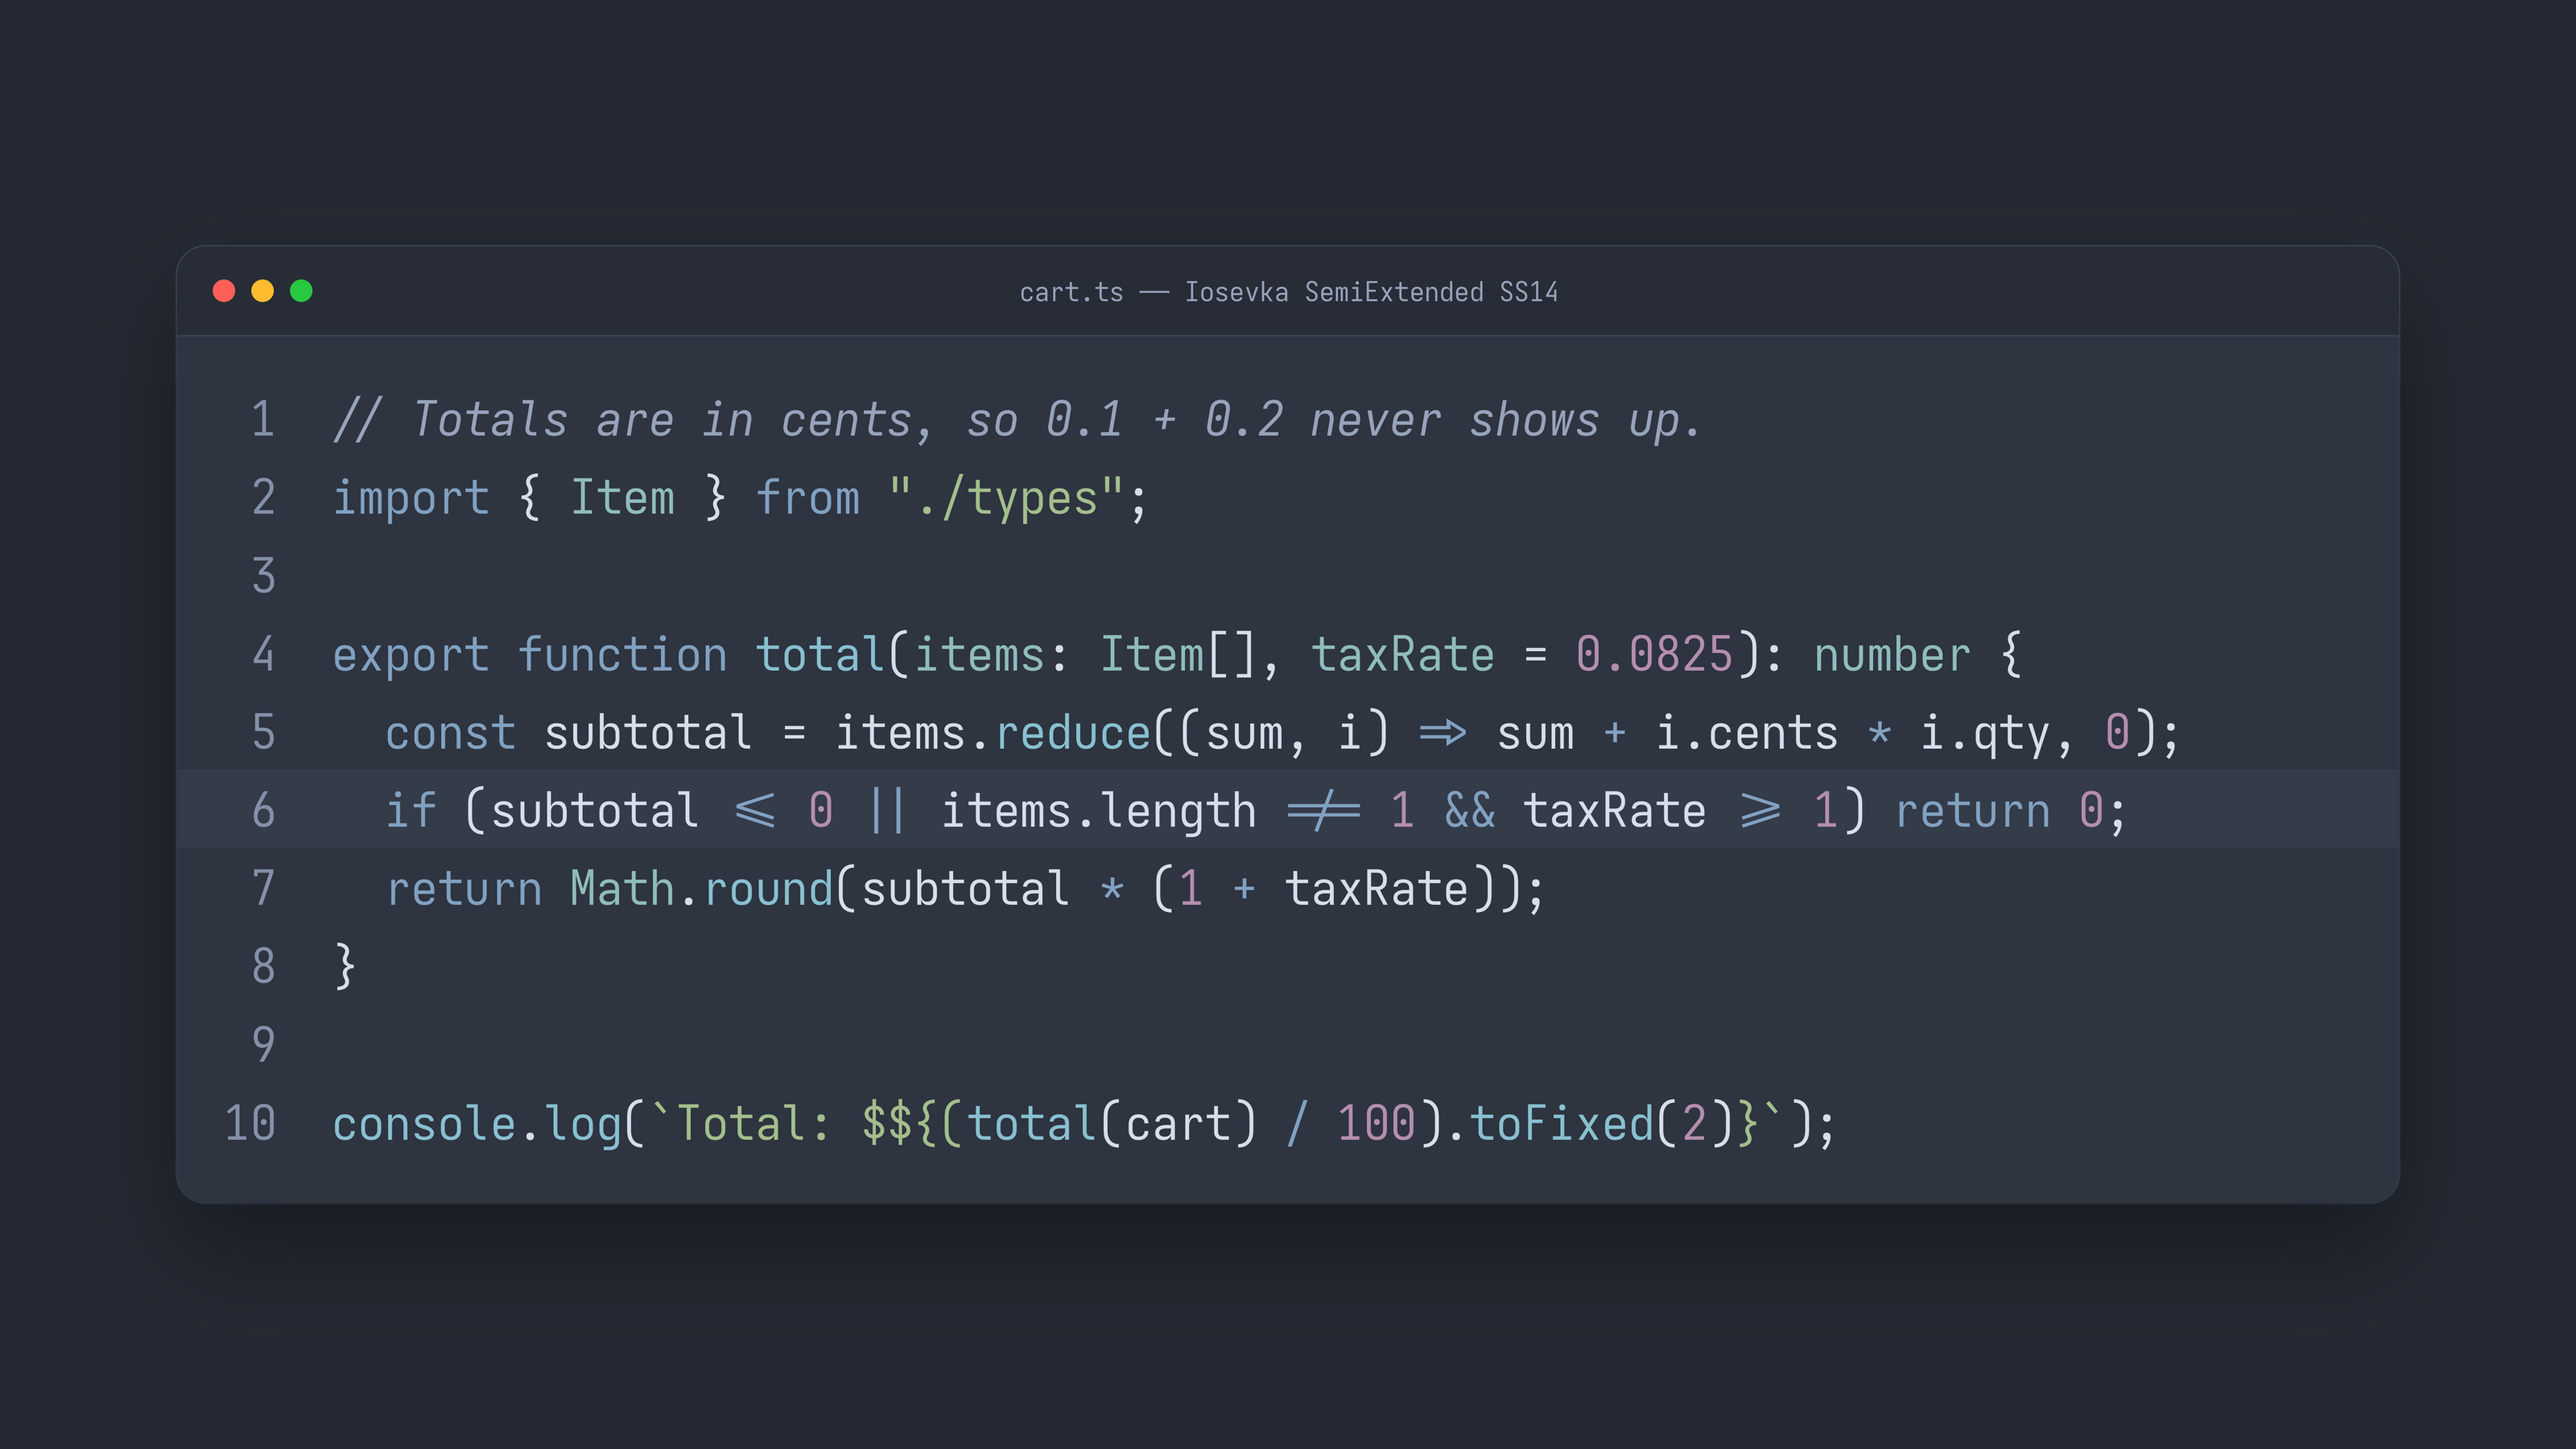
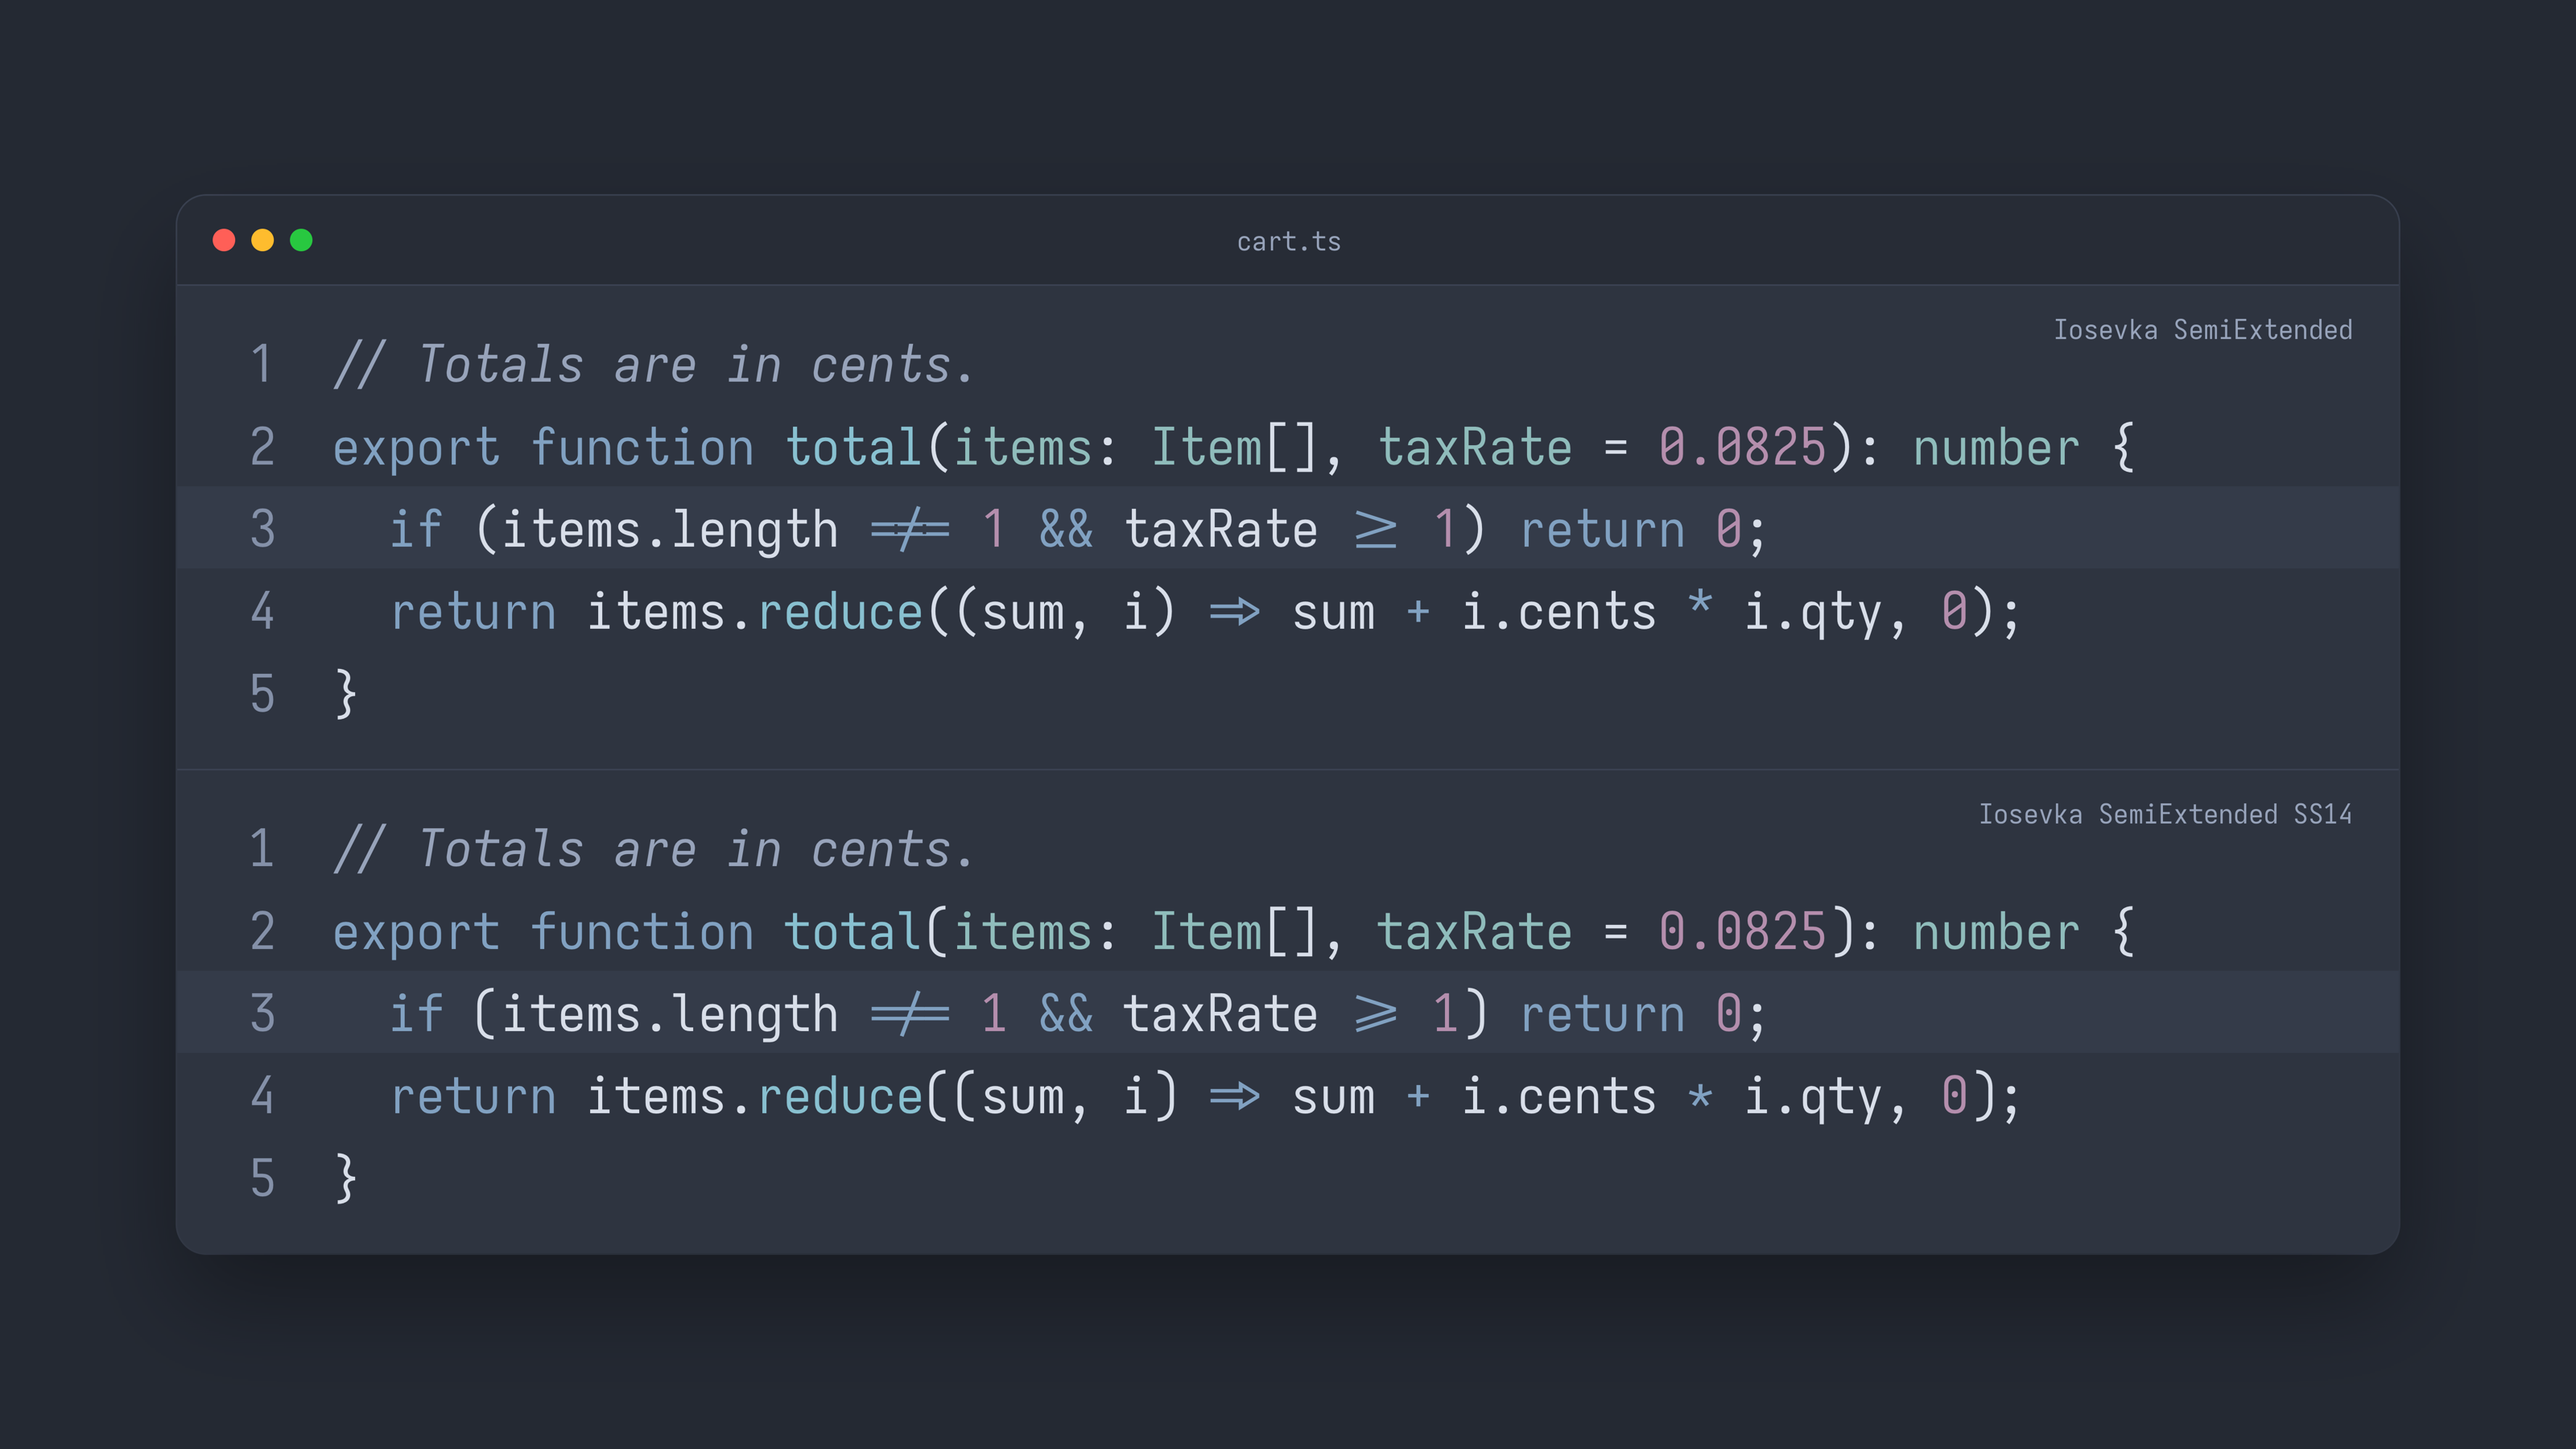
Show both families in the preview images

diff --git a/images/src/code.html b/images/src/code.html
@@ -10,7 +10,11 @@ body { background: var(--bg); padding: 0 110px; display: flex; align-items: cent
 .dots b:nth-child(2) { background: #febc2e; }
 .dots b:nth-child(3) { background: #28c840; }
 .title { flex: 1; text-align: center; font-size: 17px; color: var(--dim); margin-right: 60px; }
-pre { font: inherit; font-size: 30px; line-height: 1.62; padding: 26px 0; color: var(--fg); }
+.pane { position: relative; font-family: "Iosevka SemiExtended", monospace; }
+.pane + .pane { border-top: 1px solid var(--line); }
+.pane.ss14 { font-family: "Iosevka SemiExtended SS14", monospace; }
+.tag { position: absolute; top: 16px; right: 28px; font-size: 17px; color: var(--dim); }
+pre { font: inherit; font-size: 32px; line-height: 1.6; padding: 22px 0; color: var(--fg); }
 .l { display: block; padding: 0 36px 0 0; white-space: pre; }
 .l.cur { background: var(--sel); }
 .n { display: inline-block; width: 96px; text-align: right; padding-right: 34px; color: var(--ln); }
@@ -19,6 +23,22 @@ pre { font: inherit; font-size: 30px; line-height: 1.62; padding: 26px 0; color:
 </style>
 <script>if (location.hash === '#light') document.documentElement.className = 'light';</script>
 <div class="win">
-  <div class="bar"><div class="dots"><b></b><b></b><b></b></div><div class="title">cart.ts — Iosevka SemiExtended SS14</div></div>
-<pre><span class="l"><span class="n">1</span><span class="c">// Totals are in cents, so 0.1 + 0.2 never shows up.</span></span><span class="l"><span class="n">2</span><span class="k">import</span> { <span class="t">Item</span> } <span class="k">from</span> <span class="s">"./types"</span>;</span><span class="l"><span class="n">3</span></span><span class="l"><span class="n">4</span><span class="k">export function</span> <span class="f">total</span>(<span class="t">items</span>: <span class="t">Item</span>[], <span class="t">taxRate</span> = <span class="d">0.0825</span>): <span class="t">number</span> {</span><span class="l"><span class="n">5</span>  <span class="k">const</span> subtotal = items.<span class="f">reduce</span>((sum, i) <span class="o">=&gt;</span> sum <span class="o">+</span> i.cents <span class="o">*</span> i.qty, <span class="d">0</span>);</span><span class="l cur"><span class="n">6</span>  <span class="k">if</span> (subtotal <span class="o">&lt;=</span> <span class="d">0</span> <span class="o">||</span> items.length <span class="o">!==</span> <span class="d">1</span> <span class="o">&amp;&amp;</span> taxRate <span class="o">&gt;=</span> <span class="d">1</span>) <span class="k">return</span> <span class="d">0</span>;</span><span class="l"><span class="n">7</span>  <span class="k">return</span> <span class="t">Math</span>.<span class="f">round</span>(subtotal <span class="o">*</span> (<span class="d">1</span> <span class="o">+</span> taxRate));</span><span class="l"><span class="n">8</span>}</span><span class="l"><span class="n">9</span></span><span class="l"><span class="n">10</span><span class="f">console</span>.<span class="f">log</span>(<span class="s">`Total: $${(</span><span class="f">total</span>(cart) <span class="o">/</span> <span class="d">100</span>).<span class="f">toFixed</span>(<span class="d">2</span>)<span class="s">}`</span>);</span></pre>
+  <div class="bar"><div class="dots"><b></b><b></b><b></b></div><div class="title">cart.ts</div></div>
+  <div class="pane" id="stock"><div class="tag">Iosevka SemiExtended</div><pre></pre></div>
+  <div class="pane ss14" id="ss14"><div class="tag">Iosevka SemiExtended SS14</div><pre></pre></div>
 </div>
+<script>
+// {{class:text}} marks a highlighted span; text is HTML.
+const lines = [
+  '{{c:// Totals are in cents.}}',
+  '{{k:export function}} {{f:total}}({{t:items}}: {{t:Item}}[], {{t:taxRate}} = {{d:0.0825}}): {{t:number}} {',
+  '  {{k:if}} (items.length {{o:!==}} {{d:1}} {{o:&amp;&amp;}} taxRate {{o:&gt;=}} {{d:1}}) {{k:return}} {{d:0}};',
+  '  {{k:return}} items.{{f:reduce}}((sum, i) {{o:=&gt;}} sum {{o:+}} i.cents {{o:*}} i.qty, {{d:0}});',
+  '}',
+];
+const cur = 2;
+const html = lines.map((raw, i) =>
+  '<span class="l' + (i === cur ? ' cur' : '') + '"><span class="n">' + (i + 1) + '</span>' +
+  raw.replace(/\{\{(\w):(.*?)\}\}/g, '<span class="$1">$2</span>') + '</span>').join('');
+document.querySelectorAll('.pane pre').forEach(p => p.innerHTML = html);
+</script>

diff --git a/images/src/glyphs.html b/images/src/glyphs.html
@@ -1,23 +1,35 @@
 <!doctype html><meta charset="utf-8"><link rel="stylesheet" href="common.css">
 <style>
 html { background-color: #1d2230; }
-body { background-color: #1d2230; color: #e5e9f0; padding: 72px 100px; }
-.head { display: flex; justify-content: space-between; align-items: baseline; margin-bottom: 52px; }
-.head h2 { font-size: 40px; font-weight: 700; }
-.head span { font-size: 20px; color: #8795ad; }
-.grid { display: grid; grid-template-columns: repeat(2, 1fr); gap: 52px 70px; }
-.lab { font-size: 16px; letter-spacing: .12em; text-transform: uppercase; color: #88c0d0; margin-bottom: 12px; }
-.t { font-size: 46px; line-height: 1.38; color: #d8dee9; word-break: break-all; }
-.lig { grid-column: 1 / -1; }
-.lig .t { font-size: 44px; white-space: nowrap; }
+body { background-color: #1d2230; color: #e5e9f0; padding: 64px 100px; font-family: "Iosevka SemiExtended", monospace; }
+h2 { font-size: 40px; font-weight: 700; margin-bottom: 34px; }
+.grid { display: grid; grid-template-columns: 190px minmax(0, 1fr) minmax(0, 1fr); column-gap: 40px; row-gap: 26px; align-items: baseline; }
+.head { align-self: end; }
+.head .name { font-size: 26px; font-weight: 700; color: #e5e9f0; }
+.head .note { font-size: 18px; color: #9aa7bd; margin-top: 2px; }
+.lab { font-size: 15px; letter-spacing: .12em; text-transform: uppercase; color: #88c0d0; font-family: "Iosevka SemiExtended", monospace; }
+.t { font-size: 38px; line-height: 1.3; color: #d8dee9; white-space: nowrap; }
+.ss14 { font-family: "Iosevka SemiExtended SS14", monospace; }
+.rule { grid-column: 1 / -1; border-top: 1px solid #343c52; margin: 4px 0 2px; }
 </style>
-<div class="head"><h2>Character set</h2><span>Iosevka SemiExtended SS14 · Regular</span></div>
-<div class="grid">
-  <div><div class="lab">Uppercase</div><div class="t">ABCDEFGHIJKLMNOPQRSTUVWXYZ</div></div>
-  <div><div class="lab">Lowercase</div><div class="t">abcdefghijklmnopqrstuvwxyz</div></div>
-  <div><div class="lab">Numerals</div><div class="t">0123456789 ¼ ½ ¾ ² ³</div></div>
-  <div><div class="lab">Punctuation</div><div class="t">!?.,:;&amp;@#$%*+-=/\|~^_`'"</div></div>
-  <div><div class="lab">Accented</div><div class="t">àéîõü ñçø ÅÆŒ ŁŠŽ ğş</div></div>
-  <div><div class="lab">Greek &amp; Cyrillic</div><div class="t">αβγδ ΩΣΔ ЖДЯ жфю</div></div>
-  <div class="lig"><div class="lab">Ligatures</div><div class="t">-&gt; =&gt; &lt;= &gt;= == != === !== &amp;&amp; || :: &lt;-&gt; |&gt; ..&lt;</div></div>
-</div>
+<h2>Character set</h2>
+<div class="grid" id="grid"></div>
+<script>
+const rows = [
+  ['Uppercase', 'ABCDEFGHIJKLMNOPQRSTUVWXYZ'],
+  ['Lowercase', 'abcdefghijklmnopqrstuvwxyz'],
+  ['Numerals', '0123456789 ¼ ½ ¾ ² ³'],
+  ['Punctuation', '!?.,:;&amp;@#$%*+-=/\\|~^_`\'"'],
+  ['Accented', 'àéîõü ñçø ÅÆŒ ŁŠŽ ğş'],
+  ['Greek &amp; Cyrillic', 'αβγδ ΩΣΔ ЖДЯ жфю'],
+  ['Ligatures', '-&gt; =&gt; &lt;= &gt;= != === &amp;&amp; ||'],
+];
+let h = '<div></div>' +
+  '<div class="head"><div class="name">Iosevka SemiExtended</div><div class="note">The release Iosevka design</div></div>' +
+  '<div class="head ss14"><div class="name">Iosevka SemiExtended SS14</div><div class="note">JetBrains Mono style</div></div>' +
+  '<div class="rule"></div>';
+for (const [lab, text] of rows) {
+  h += '<div class="lab">' + lab + '</div><div class="t">' + text + '</div><div class="t ss14">' + text + '</div>';
+}
+document.getElementById('grid').innerHTML = h;
+</script>

diff --git a/images/src/hero.html b/images/src/hero.html
@@ -1,21 +1,34 @@
 <!doctype html><meta charset="utf-8"><link rel="stylesheet" href="common.css">
 <style>
 html { background-color: #1d2230; }
-body { background-color: #1d2230; color: #e5e9f0; padding: 84px 100px; position: relative; }
+body { background-color: #1d2230; color: #e5e9f0; padding: 68px 100px; position: relative; font-family: "Iosevka SemiExtended", monospace; }
 .eyebrow { font-size: 22px; letter-spacing: .14em; text-transform: uppercase; color: #88c0d0; }
-h1 { font-size: 132px; line-height: 1.02; font-weight: 700; margin-top: 18px; letter-spacing: -.01em; }
+h1 { font-size: 104px; line-height: 1.05; font-weight: 700; margin-top: 14px; letter-spacing: -.01em; }
 h1 span { color: #88c0d0; }
-.sub { font-size: 30px; color: #9aa7bd; margin-top: 22px; }
-.abc { margin-top: 56px; font-size: 54px; line-height: 1.35; color: #d8dee9; }
-.abc i { color: #a3be8c; }
-.weights { position: absolute; left: 100px; right: 100px; bottom: 70px; display: flex; justify-content: space-between; border-top: 1px solid #343c52; padding-top: 28px; }
-.w { font-size: 30px; color: #cfd6e6; text-align: left; }
-.w small { display: block; font-size: 15px; font-weight: 400; color: #8795ad; margin-top: 8px; letter-spacing: .04em; }
+.cards { display: grid; grid-template-columns: 1fr 1fr; gap: 36px; margin-top: 52px; }
+.card { background: #252b3b; border: 1px solid #343c52; border-radius: 16px; padding: 26px 34px 28px; }
+.card .name { font-size: 26px; font-weight: 700; color: #e5e9f0; }
+.card .note { font-size: 18px; color: #9aa7bd; margin-top: 4px; }
+.card .s { font-size: 56px; line-height: 1.34; color: #d8dee9; margin-top: 16px; white-space: nowrap; }
+.ss14, .ss14 .name, .ss14 .note, .ss14 .s { font-family: "Iosevka SemiExtended SS14", monospace; }
+.weights { position: absolute; left: 100px; right: 100px; bottom: 54px; display: flex; justify-content: space-between; border-top: 1px solid #343c52; padding-top: 22px; }
+.w { font-size: 28px; color: #cfd6e6; }
+.w small { display: block; font-size: 15px; font-weight: 400; color: #8795ad; margin-top: 6px; letter-spacing: .04em; }
 </style>
-<div class="eyebrow">Iosevka · 548 wide · JetBrains Mono style</div>
-<h1>Iosevka<br><span>SemiExtended</span> SS14</h1>
-<div class="sub">The width in between, as its own font family.</div>
-<div class="abc">0123456789 &nbsp;ABCDEFGHIJKLM<br>agjlrty &nbsp;<i>agjlrty</i> &nbsp;NOPQRSTUVWXYZ</div>
+<div class="eyebrow">Iosevka · 548 wide · Homebrew</div>
+<h1><span>Iosevka</span> SemiExtended</h1>
+<div class="cards">
+  <div class="card">
+    <div class="name">Iosevka SemiExtended</div>
+    <div class="note">The release Iosevka design</div>
+    <div class="s">0123456789<br>agjlrty QRWYGK<br>Il1| O0o {}[] -&gt; !=</div>
+  </div>
+  <div class="card ss14">
+    <div class="name">Iosevka SemiExtended SS14</div>
+    <div class="note">JetBrains Mono style</div>
+    <div class="s">0123456789<br>agjlrty QRWYGK<br>Il1| O0o {}[] -&gt; !=</div>
+  </div>
+</div>
 <div class="weights">
   <div class="w" style="font-weight:100">Thin<small>100</small></div>
   <div class="w" style="font-weight:200">ExtraLight<small>200</small></div>

diff --git a/README.md b/README.md
@@ -1,6 +1,6 @@
 # Iosevka SemiExtended
 
-![Iosevka SemiExtended SS14 specimen](images/hero.png)
+![Iosevka SemiExtended and Iosevka SemiExtended SS14 side by side, with all nine weights](images/hero.png)
 
 [Iosevka](https://github.com/be5invis/Iosevka), unmodified, in the SemiExtended width (548). The release builds ship Normal and Extended only ([be5invis/Iosevka#3320](https://github.com/be5invis/Iosevka/issues/3320)), so this repo builds two release plans in the SemiExtended width and packages each as a Homebrew cask. Each gets its own family name, so `Iosevka` and `Iosevka SS14` stay the standard width and font menus list the SemiExtended builds separately:
 
@@ -13,10 +13,10 @@ Each has all 9 weights in upright, italic and oblique.
 
 <picture>
   <source media="(prefers-color-scheme: dark)" srcset="images/code-dark.png">
-  <img alt="TypeScript in Iosevka SemiExtended SS14, with ligatures" src="images/code-light.png">
+  <img alt="The same TypeScript in Iosevka SemiExtended and Iosevka SemiExtended SS14, with ligatures" src="images/code-light.png">
 </picture>
 
-![Character set](images/glyphs.png)
+![Character set in Iosevka SemiExtended and Iosevka SemiExtended SS14](images/glyphs.png)
 
 ## Install
 
